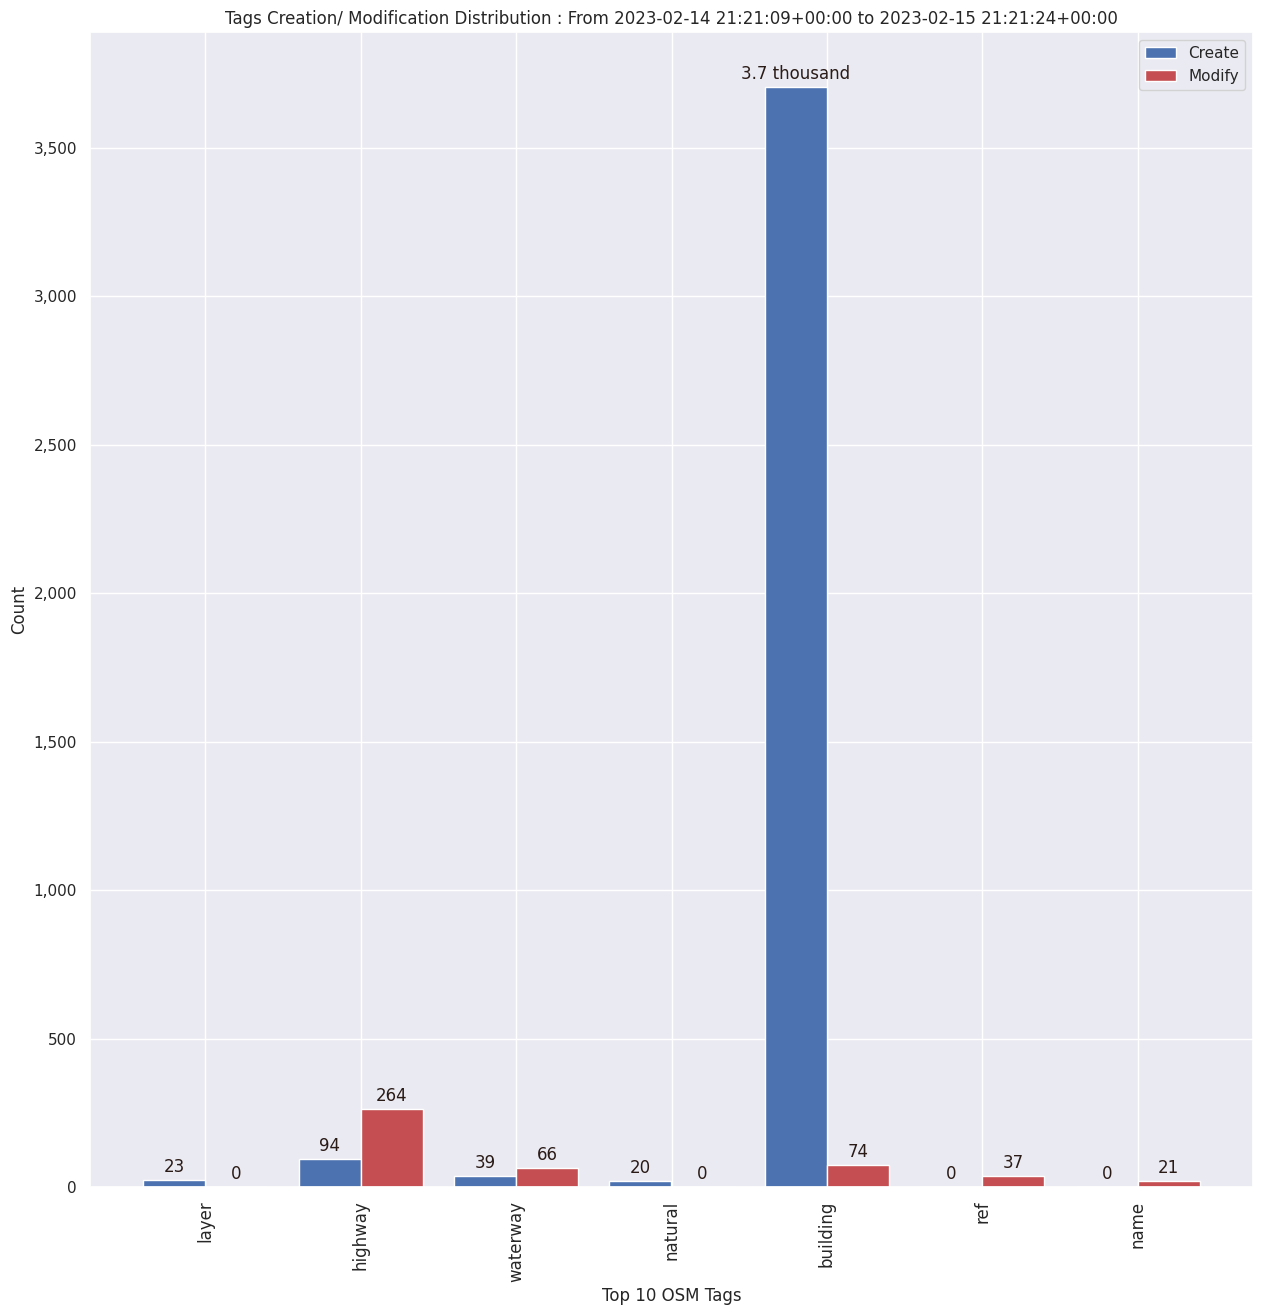
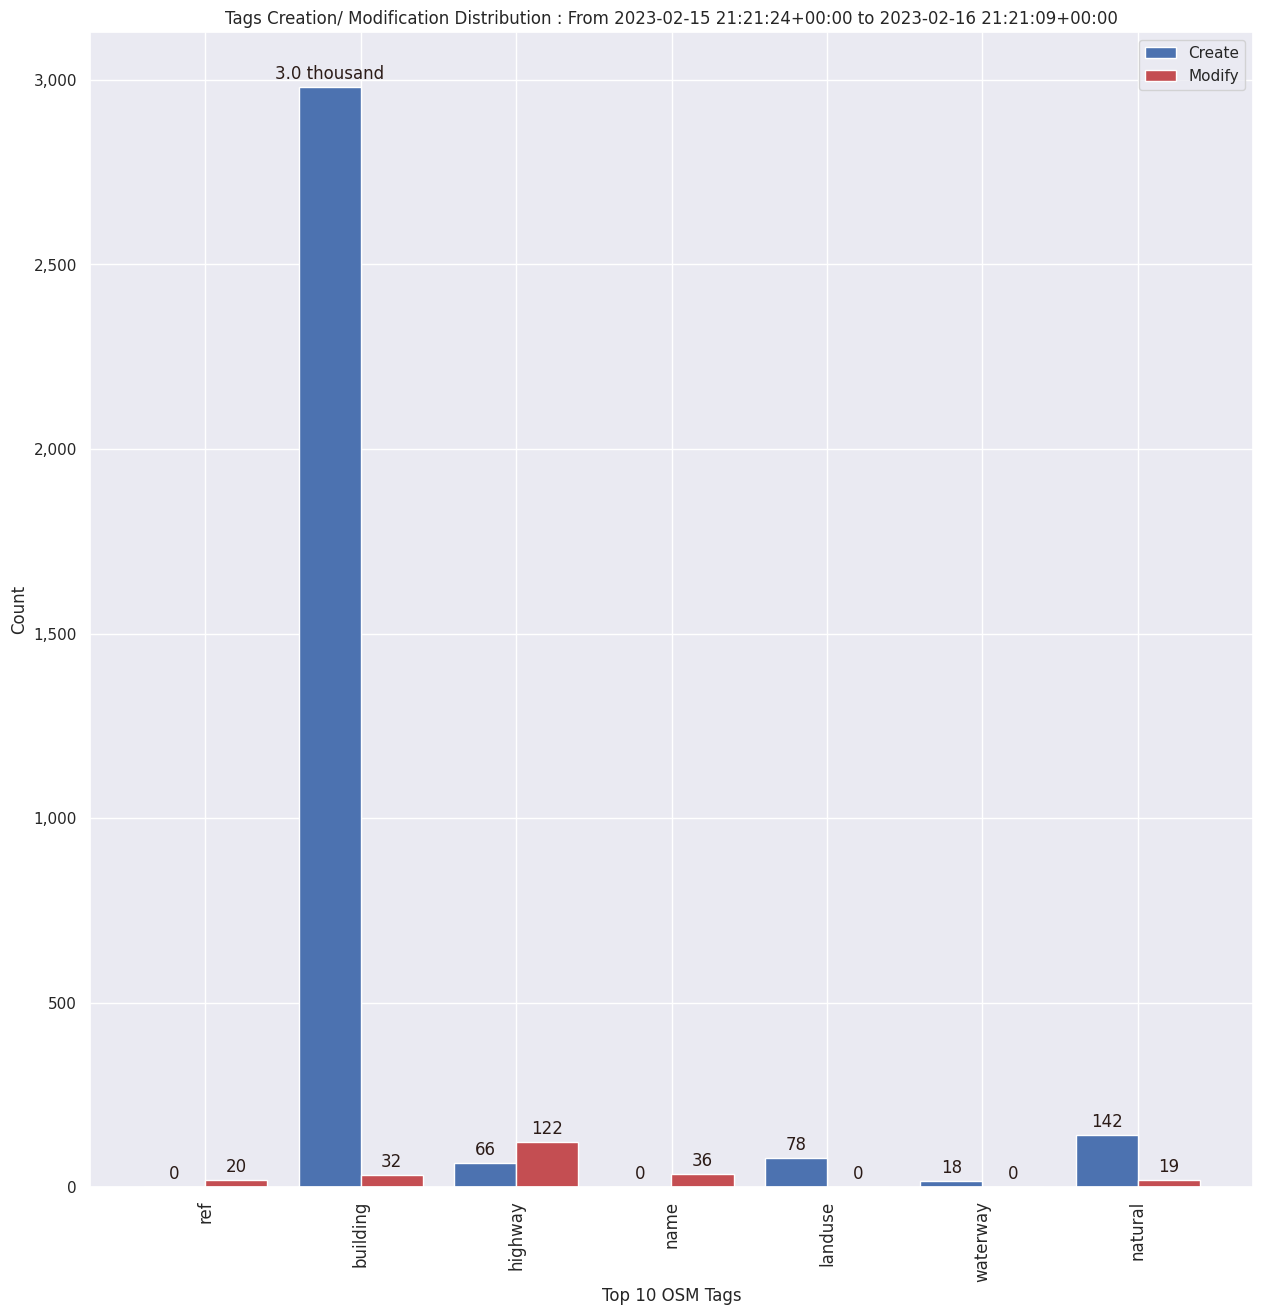
Updated Readme Daily Nepal

diff --git a/stats/Nepal/Daily/README.md b/stats/Nepal/Daily/README.md
@@ -1,10 +1,10 @@
 ### Last Update :
 
-### Stats From 2023-02-15 03:06:09+05:45 to 2023-02-16 03:06:24+05:45
+### Stats From 2023-02-16 03:06:24+05:45 to 2023-02-17 03:06:09+05:45
 
-47 Users made 193 changesets with 33324 map changes.
-- Nirmala Rawat tops table with 11546 changes, Followed by seichter & Lalit_IAAS. Users created 20952 nodes , 3875 ways & 1 relations, Including 3704 buildings, 94 highways, 39 waterways. Users also modified 8051 nodes, 442 ways & 3 relations
-- Top three trending hashtags for those stats are #maproulette : 11, #AtlasChecks : 11 & #SharpAngleCheck : 10
+40 Users made 119 changesets with 33170 map changes.
+- marek kleciak tops table with 13078 changes, Followed by Nirmala Rawat & seichter. Users created 27109 nodes , 3293 ways & 7 relations, Including 2980 buildings, 66 highways, 18 waterways. Users also modified 2545 nodes, 210 ways & 6 relations
+- Top three trending hashtags for those stats are #geoneer : 6, #janashram : 5 & #adt : 4
 - 
 ![Alt text](./charts/osm_changes.png) 
 ![Alt text](./charts/users_per_hashtag.png) 
